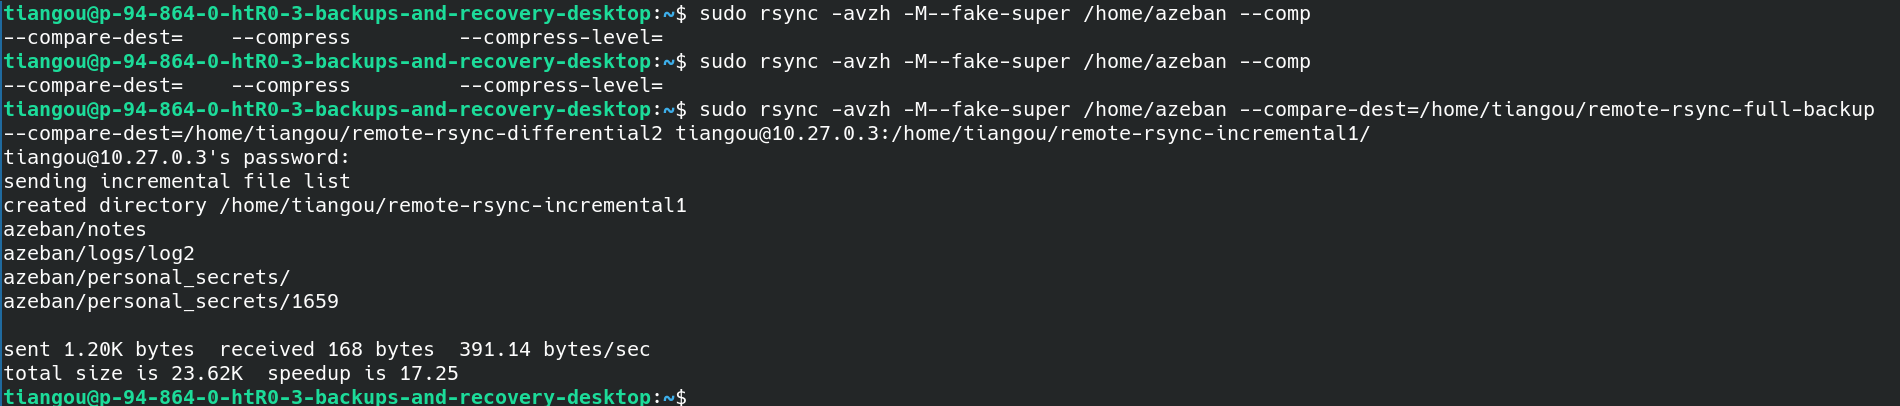
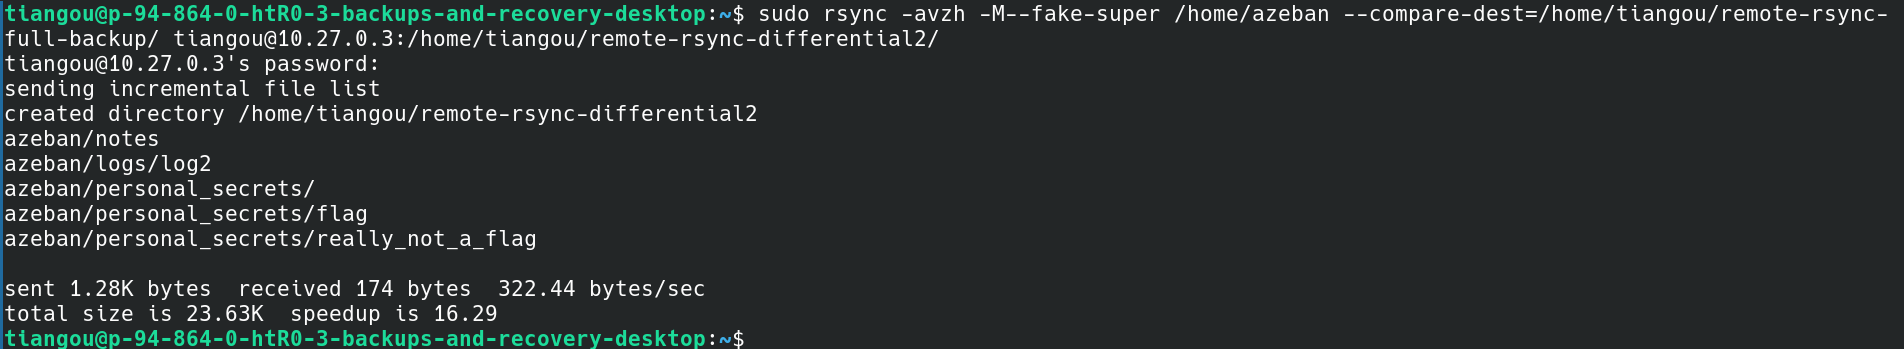
finished lab3

Changed region(s): [[0.0, 0.0, 0.9937, 0.7736], [0.0, 0.8023, 0.4037, 1.0], [0.2484, 0.2006, 0.3416, 0.2292]]

diff --git a/main.tex b/main.tex
@@ -450,7 +450,9 @@ The files report as changed, because the hashes are hard-coded into the script a
 \labquestion{What are the limitations of this approach? What files will (and won't) this approach to integrity management cover? Are the hashes protected against tampering?}
 
 Any file that has been installed manually, created by an attacker, or your own personal files as debsums has no hashes to compare them to limiting the usefulness of it. If the attacker has root access then they can update the file storing the hashes after uploading malware to make sure that the malicious file passes the check. 
-
+% =====================================================================
+%  LAB 3
+% =====================================================================
 % =====================================================================
 %  LAB 3
 % =====================================================================
@@ -489,11 +491,12 @@ Any file that has been installed manually, created by an attacker, or your own p
 \ldots
 
 %---------------------------------------------------------------
-\subsection{Flag 3: Second User Changes Their Files (Preparation)}
+% Attack 3: second user changes their files (flag hidden in the changes)
+\subsection{Flag 3: Second User Changes Their Files}
 
 \subsubsection{Evidence}
 \screenshot[fig:lab3-a3-cmds]{lab3/commands3.png}{Commands run and their output.}
-\screenshot[fig:lab3-a3-flag]{labclearcd 3/flag3.png}{Flag provided by Hackerbot.}
+\screenshot[fig:lab3-a3-flag]{lab3/flag3.png}{Flag found in the second user's changed files.}
 \flagvalue{flag{cc25c5f0}}
 
 \subsubsection{Technical Steps}
@@ -503,6 +506,7 @@ Any file that has been installed manually, created by an attacker, or your own p
 \ldots
 
 %---------------------------------------------------------------
+% Attack 4: differential backup
 \subsection{Flag 4: Differential Backup 1}
 
 \subsubsection{Evidence}
@@ -517,11 +521,13 @@ Any file that has been installed manually, created by an attacker, or your own p
 \ldots
 
 %---------------------------------------------------------------
-\subsection{Flag 5: Second User Makes More Changes}
+% Attack 5 (second user's changes, no flag) + Attack 6 (backup)
+\subsection{Flag 6: Differential Backup 2}
 
 \subsubsection{Evidence}
-\screenshot[fig:lab3-a5-cmds]{lab3/commands5.png}{Commands run and their output.}
-\screenshot[fig:lab3-a5-flag]{lab3/flag5.png}{Flag provided by Hackerbot.}
+% Attack 6: second differential backup
+\screenshot[fig:lab3-a6-cmds]{lab3/commands6.png}{Commands run and their output.}
+\screenshot[fig:lab3-a6-flag]{lab3/flag6.png}{Flag provided by Hackerbot.}
 \flagvalue{flag{deadbolt roosting}}
 
 \subsubsection{Technical Steps}
@@ -531,11 +537,13 @@ Any file that has been installed manually, created by an attacker, or your own p
 \ldots
 
 %---------------------------------------------------------------
-\subsection{Flag 6: Differential Backup 2}
+% Attack 7 (second user's changes, no flag) + Attack 8 (backup)
+\subsection{Flag 8: Incremental Backup 1}
 
 \subsubsection{Evidence}
-\screenshot[fig:lab3-a6-cmds]{lab3/commands6.png}{Commands run and their output.}
-\screenshot[fig:lab3-a6-flag]{lab3/flag6.png}{Flag provided by Hackerbot.}
+% Attack 8: incremental backup
+\screenshot[fig:lab3-a8-cmds]{lab3/commands8.png}{Commands run and their output.}
+\screenshot[fig:lab3-a8-flag]{lab3/flag8.png}{Flag provided by Hackerbot.}
 \flagvalue{flag{118128bd}}
 
 \subsubsection{Technical Steps}
@@ -545,54 +553,16 @@ Any file that has been installed manually, created by an attacker, or your own p
 \ldots
 
 %---------------------------------------------------------------
-\subsection{Flag 7: Second User Makes Even More Changes}
-
-\subsubsection{Evidence}
-\screenshot[fig:lab3-a7-cmds]{lab3/commands7.png}{Commands run and their output.}
-\screenshot[fig:lab3-a7-flag]{lab3/flag7.png}{Flag provided by Hackerbot.}
-\flagvalue{flag{ea999b2ed26191d87d591a643d54a56a}}
-
-\subsubsection{Technical Steps}
-\ldots
-
-\subsubsection{Challenge-Specific Theory}
-\ldots
-
-%---------------------------------------------------------------
-\subsection{Flag 8: Incremental Backup 1}
-
-\subsubsection{Evidence}
-\screenshot[fig:lab3-a8-cmds]{lab3/commands8.png}{Commands run and their output.}
-\screenshot[fig:lab3-a8-flag]{lab3/flag8.png}{Flag provided by Hackerbot.}
-\flagvalue{FLAG{replace_me}}
-
-\subsubsection{Technical Steps}
-\ldots
-
-\subsubsection{Challenge-Specific Theory}
-\ldots
-
-%---------------------------------------------------------------
-\subsection{Flag 9: Second User Makes One More Set of Changes}
-
-\subsubsection{Evidence}
-\screenshot[fig:lab3-a9-cmds]{lab3/commands9.png}{Commands run and their output.}
-\screenshot[fig:lab3-a9-flag]{lab3/flag9.png}{Flag provided by Hackerbot.}
-\flagvalue{FLAG{replace_me}}
-
-\subsubsection{Technical Steps}
-\ldots
-
-\subsubsection{Challenge-Specific Theory}
-\ldots
-
-%---------------------------------------------------------------
+% Attack 9 (second user's changes, no flag) + Attack 10 (backup and quiz)
 \subsection{Flag 10: Incremental Backup 2 and Backup Quiz}
 
 \subsubsection{Evidence}
+% Attack 10: second incremental backup, then quiz (two flags)
 \screenshot[fig:lab3-a10-cmds]{lab3/commands10.png}{Commands run and their output.}
-\screenshot[fig:lab3-a10-flag]{lab3/flag10.png}{Flag provided by Hackerbot.}
-\flagvalue{FLAG{replace_me}}
+\screenshot[fig:lab3-a10-cmds2]{lab3/commands10.1.png}{Commands run and their output.}
+\screenshot[fig:lab3-a10-flag]{lab3/flag10.png}{Flags provided by Hackerbot.}
+\flagvalue{flag{ea999b2ed26191d87d591a643d54a56a}}
+\flagvalue{flag{jacinth anthranilate}}
 
 \subsubsection{Technical Steps}
 \ldots
@@ -601,26 +571,13 @@ Any file that has been installed manually, created by an attacker, or your own p
 \ldots
 
 %---------------------------------------------------------------
-\subsection{Flag 11: Backup Verification and Attack}
+% Attack 11 (backup check and wipe, no flag) + Attack 12 (restore)
+\subsection{Flag 12: Backup Verification, Attack and Restore}
 
-\subsubsection{Evidence}
-\screenshot[fig:lab3-a11-cmds]{lab3/commands11.png}{Commands run and their output.}
-\screenshot[fig:lab3-a11-flag]{lab3/flag11.png}{Flag provided by Hackerbot.}
-\flagvalue{FLAG{replace_me}}
-
-\subsubsection{Technical Steps}
-\ldots
-
-\subsubsection{Challenge-Specific Theory}
-\ldots
-
-%---------------------------------------------------------------
-\subsection{Flag 12: Restoring the Second User's Files from Backups}
-
-\subsubsection{Evidence}
+% Attack 12: restore from backups
 \screenshot[fig:lab3-a12-cmds]{lab3/commands12.png}{Commands run and their output.}
 \screenshot[fig:lab3-a12-flag]{lab3/flag12.png}{Flag provided by Hackerbot.}
-\flagvalue{FLAG{replace_me}}
+\flagvalue{flag{e72164df78031a209a6d9a7bc6e4fe9a}}
 
 \subsubsection{Technical Steps}
 \ldots
@@ -634,7 +591,7 @@ Any file that has been installed manually, created by an attacker, or your own p
 \subsubsection{Evidence}
 \screenshot[fig:lab3-a13-cmds]{lab3/commands13.png}{Commands run and their output.}
 \screenshot[fig:lab3-a13-flag]{lab3/flag13.png}{Flag provided by Hackerbot.}
-\flagvalue{FLAG{replace_me}}
+\flagvalue{flag{cymagraphs problematically}}
 
 \subsubsection{Technical Steps}
 \ldots
